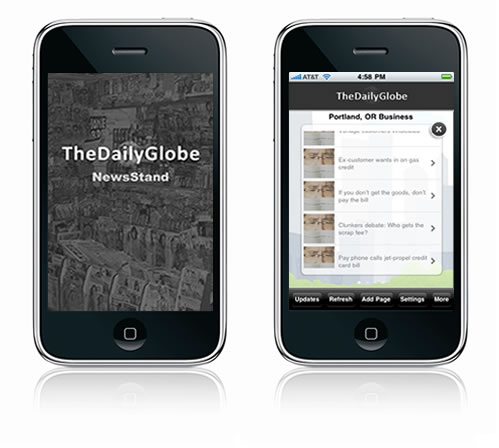
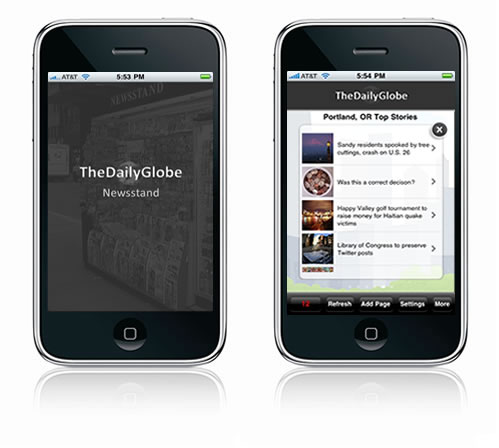
local search stuff, and hopefully last push for official launch

Changed region(s): [[0.5711, 0.1562, 0.9319, 0.7188], [0.0902, 0.1562, 0.4509, 0.7188], [0.0902, 0.4688, 0.1202, 0.5]]

diff --git a/wp-content/themes/dailyglobe/style.css b/wp-content/themes/dailyglobe/style.css
@@ -1426,12 +1426,8 @@ ol.commentlist a {}
 
 #bottom_profit_wrangler_local {
 	clear: both;
-}
-
-#bottom_profit_wrangler_local iframe {
-	margin: 0 auto;
 	width: 728px;
-	display: block;
+	margin: 0 auto;
 }
 
 #result_content	{

diff --git a/wp-content/themes/dailyglobe/functions.php b/wp-content/themes/dailyglobe/functions.php
@@ -289,6 +289,20 @@ function get_popular_posts_by_category(&$pops = false, $cat = 1, $maxcount = 5) 
 
 }
 
+function get_users_location() {
+	if ( isset($_SESSION['location']) ) {
+		$sess = explode( '&', $_SESSION['location']);
+               
+		list(, $lat) = explode('=', $sess[0]);
+		list(, $lng) = explode('=', $sess[1]);
+		list(, $city) = explode('=', $sess[2]);
+		$name = $city;
+	} else {
+		$name = get_bloginfo('name');
+	}
+	return $name;
+
+}
 
 function get_default_location() {
 	
@@ -383,8 +397,6 @@ function get_local_link() {
 	$list = explode( '&', $_SESSION['location'] );
 	foreach ($list as $item) {
 		list($key, $val) = explode( '=', $item );
-		if ( 'doi' == $key && 0 == $val)
-			break;
 		if ( 'domain' == $key )
 			return $val;
 	}

diff --git a/wp-content/themes/dailyglobe/local-search-result.php b/wp-content/themes/dailyglobe/local-search-result.php
@@ -188,7 +188,17 @@ $(document).ready(function() {
 	</div><!--content-->
 	
 	<div id="sidebar_thing" class="right">
-	<?php get_sidebar (2); ?>
+	<script type="text/javascript"><!--
+	google_ad_client = "pub-5222051702127265";
+	/* 160x600, created 4/13/10 */
+	google_ad_slot = "4538611883";
+	google_ad_width = 160;
+	google_ad_height = 600;
+	//-->
+	</script>
+	<script type="text/javascript"
+	src="http://pagead2.googlesyndication.com/pagead/show_ads.js">
+	</script>
 
 	</div>
 	

diff --git a/wp-content/themes/dailyglobe/local-search.php b/wp-content/themes/dailyglobe/local-search.php
@@ -73,15 +73,13 @@ $(document).ready(function() {
 
 
 <?php
-if (get_bloginfo('name') == "U.S. News") {
-	$location = "US";
-} else {
-	$locationArray = explode(", ", get_bloginfo('name'));
+
+	$locationArray = explode(", ", get_users_location());
 	$city = $locationArray[0]; 
 	$state = $locationArray[1];
 	if ($state == "OR") { $state = "Oregon"; }
 	$location = $city . "," . $state;
-}
+
 ?>	
 
 
